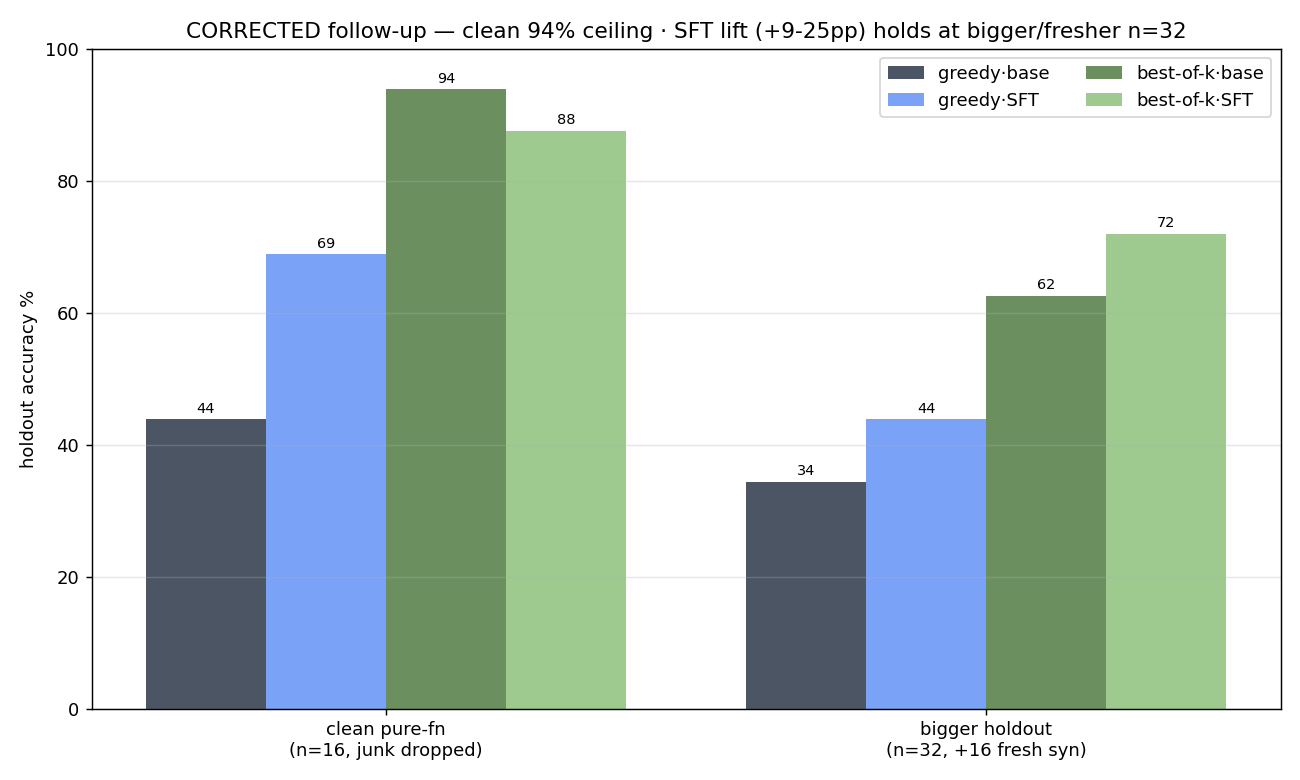
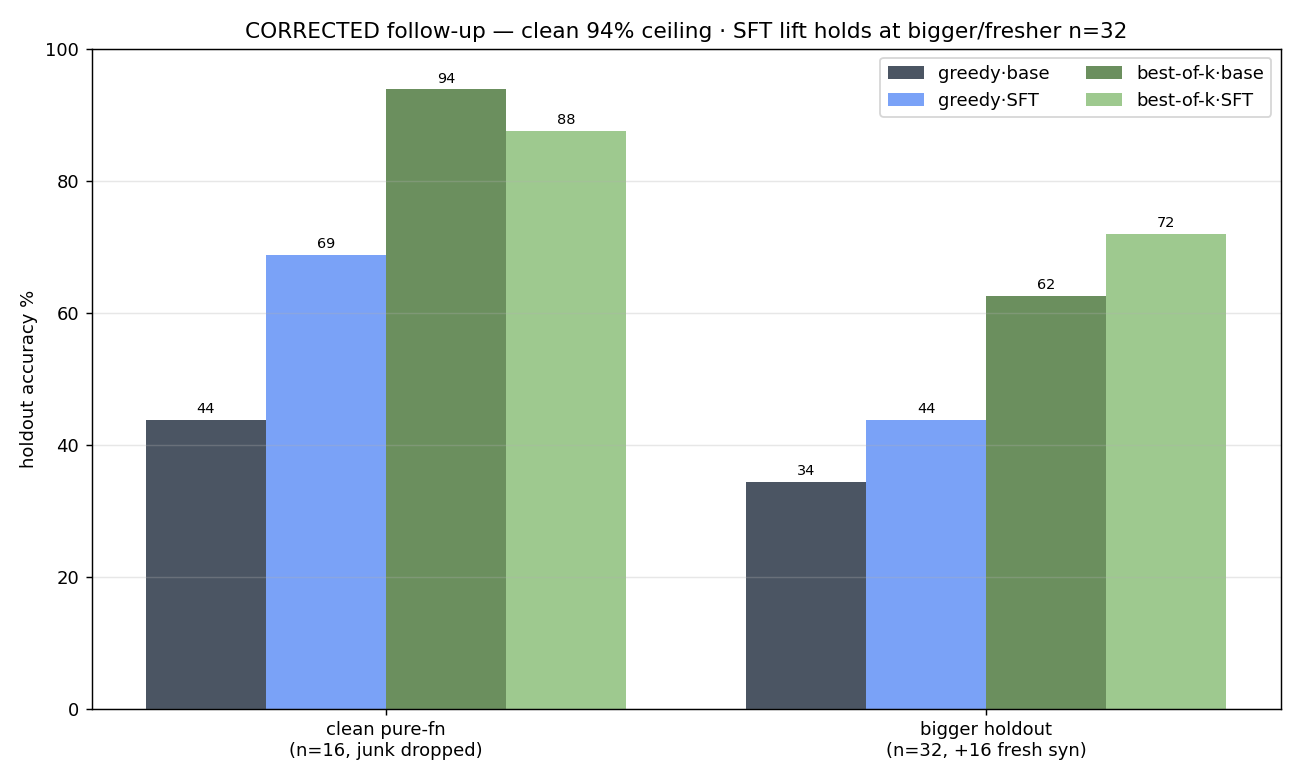
feat(studio+graphs): journey + k-scale + 5-holdout charts, more resultspub graphs
Graphs: added corrected_journey (11->94% story), corrected_all_holdouts (5 holdouts),
corrected_kscale (greedy/k8/k32); make_summary now assembles all 5 holdouts + journey +
kscale into corrected_summary.json; removed full_program dup. Studio RL section: added THE
STORY journey line chart + SAMPLING BUDGET k-scale chart, best-of-k chart now spans 5
holdouts (incl clean 94% + big+fresh). Browser-verified, no page errors.

Changed region(s): [[0.1538, 0.0308, 0.9231, 0.0615]]

diff --git a/rl/make_graphs.py b/rl/make_graphs.py
@@ -1,15 +1,17 @@
 """Published RL graphs -> resultspub/rl/ (CORRECTED, fixed eval+reward).
 
-Only produces graphs from the corrected runs. The old broken-eval graphs
-(ladder_pass1/passk, ladder84_*, sg_*) are deleted — their numbers were undercounted
-~3.5x by the extractor bug (see RL_FINDINGS.md).
+Reads resultspub/rl/corrected_summary.json (run rl/make_summary.py first). The old
+broken-eval graphs are deleted — undercounted ~3.5x by the extractor bug (RL_FINDINGS.md).
 
-  corrected_ladder.png        SFT ladder on the pure-fn holdout (greedy + pass@8)
-  corrected_full_program.png  greedy vs best-of-k, base vs SFT, across 3 holdouts
+  corrected_journey.png        the 11%->94% story arc (headline)
+  corrected_ladder.png         SFT ladder, pure-fn holdout (greedy + pass@8)
+  corrected_all_holdouts.png   greedy vs best-of-k, base vs SFT, across 5 holdouts
+  corrected_kscale.png         sampling budget (greedy / k=8 / k=32) vs accuracy
+  corrected_followup.png       clean + bigger-holdout re-measures
 
-    python3 rl/make_graphs.py
+    python3 rl/make_summary.py && python3 rl/make_graphs.py
 """
-import os, re, json, glob
+import os, json
 import matplotlib
 matplotlib.use("Agg")
 from matplotlib import pyplot as plt
@@ -18,8 +20,8 @@ import numpy as np
 ROOT = os.path.dirname(os.path.dirname(os.path.abspath(__file__)))
 OUT = os.path.join(ROOT, "resultspub", "rl")
 os.makedirs(OUT, exist_ok=True)
+S = json.load(open(os.path.join(OUT, "corrected_summary.json")))
 
-# --- remove invalidated broken-eval graphs ---
 for stale in ["ladder_pass1.png", "ladder_passk.png", "ladder84_pass1.png",
               "ladder84_passk.png", "sg_pass1.png", "sg_perfamily.png"]:
     p = os.path.join(OUT, stale)
@@ -27,59 +29,74 @@ for stale in ["ladder_pass1.png", "ladder_passk.png", "ladder84_pass1.png",
         os.remove(p); print("removed invalidated", stale)
 
 
-def cells(path):
-    s = {}
-    for l in open(os.path.join(ROOT, path)):
-        l = l.strip()
-        if not l:
-            continue
-        r = json.loads(l); s[r["tag"]] = r
-    return s
+def save(name):
+    plt.tight_layout(); plt.savefig(f"{OUT}/{name}", dpi=130); plt.close(); print("wrote", name)
 
 
-def bok(logname):
-    """parse best-of-k DEPLOY % from a bok_*.log"""
-    p = os.path.join(ROOT, "results", logname)
-    if not os.path.exists(p):
-        return None
-    m = re.search(r"DEPLOY.*?\((\d+\.?\d*)%\)", open(p).read())
-    return float(m.group(1)) if m else None
+# 1) JOURNEY — the story arc (headline chart)
+j = S["journey"]
+labels = [d["stage"] for d in j]; vals = [d["acc"] for d in j]
+plt.figure(figsize=(11, 6))
+xs = np.arange(len(vals))
+plt.plot(xs, vals, "-o", color="#9ec98f", linewidth=2, markersize=8)
+for x, v in zip(xs, vals):
+    plt.text(x, v + 3, f"{v:.0f}%", ha="center", fontsize=11, color="#e6e6e6")
+plt.fill_between(xs, vals, alpha=0.08, color="#9ec98f")
+plt.xticks(xs, labels, rotation=12, ha="right", fontsize=9)
+plt.ylabel("holdout accuracy %"); plt.ylim(0, 100)
+plt.title("The corrected story — a measurement bug hid an 11%→94% Jac generator")
+plt.grid(True, axis="y", alpha=.3); save("corrected_journey.png")
 
-
-# 1) corrected SFT ladder (pure-fn holdout)
-c = cells("results/corrected_ladder.jsonl")
-def g(t, f): return c.get("corr/jac-qwen3coder/" + t, {}).get(f, 0)
-labels = ["base", "SFT r5", "SFT r20", "SFT rall", "SFT+GRPO", "raw-GRPO"]
-tags = ["rall/base", "r5/sft", "r20/sft", "rall/sft", "rall/sft_grpo", "rall/raw_grpo"]
-p1 = [g(t, "pass1_pct") for t in tags]; pk = [g(t, "passk_pct") for t in tags]
+# 2) SFT ladder (pure-fn)
+lad = S["ladder"]
+labels = [d["cell"] for d in lad]; p1 = [d["greedy"] for d in lad]; pk = [d["passk"] for d in lad]
 x = np.arange(len(labels)); w = 0.38
 plt.figure(figsize=(11, 6))
 plt.bar(x - w/2, p1, w, label="greedy pass@1", color="#7aa2f7")
 plt.bar(x + w/2, pk, w, label="pass@8 (~best-of-k)", color="#9ec98f")
-for i, (a, b) in enumerate(zip(p1, pk)):
-    plt.text(i - w/2, a + 1, f"{a:.0f}", ha="center", fontsize=8)
-    plt.text(i + w/2, b + 1, f"{b:.0f}", ha="center", fontsize=8)
-plt.axhline(38.9, ls=":", color="#888", alpha=.7); plt.text(5.1, 40, "base greedy", color="#888", fontsize=7)
+for i in range(len(labels)):
+    plt.text(i - w/2, p1[i] + 1, f"{p1[i]:.0f}", ha="center", fontsize=8)
+    plt.text(i + w/2, pk[i] + 1, f"{pk[i]:.0f}", ha="center", fontsize=8)
 plt.xticks(x, labels); plt.ylabel("holdout accuracy % (n=18)"); plt.ylim(0, 95)
-plt.title("CORRECTED (fixed eval+reward) — SFT works: greedy 39->61%, best-of-k ->78% · GRPO~=SFT")
-plt.legend(); plt.grid(True, axis="y", alpha=.3); plt.tight_layout()
-plt.savefig(f"{OUT}/corrected_ladder.png", dpi=130); plt.close(); print("wrote corrected_ladder.png")
+plt.title("CORRECTED — SFT works: greedy 39→61% (peak rung-20) · GRPO≈SFT · raw-GRPO=base")
+plt.legend(); plt.grid(True, axis="y", alpha=.3); save("corrected_ladder.png")
 
-# 2) full program: greedy vs best-of-k, base vs SFT, across 3 holdouts
-sg = cells("results/corrected_sg.jsonl"); cv = cells("results/conv_full.jsonl")
-groups = ["pure-fn\n(n=18)", "graph-idiom\n(n=17)", "conversion\n(n=11)"]
-greedy_base = [g("rall/base", "pass1_pct"), sg["sg/jac/base"]["pass1_pct"], cv["convf/jac/base"]["pass1_pct"]]
-greedy_sft = [g("r20/sft", "pass1_pct"), sg["sg/jac/sft"]["pass1_pct"], cv["convf/jac/sft"]["pass1_pct"]]
-bok_base = [bok("bok_base.log") or 72.2, bok("bok_sg_base.log") or 52.9, bok("bok_convf_base.log") or 72.7]
-bok_sft = [bok("bok_sft.log") or 77.8, bok("bok_sg_sft.log") or 64.7, bok("bok_convf_sft.log") or 81.8]
-x = np.arange(3); w = 0.2
-fig, ax = plt.subplots(figsize=(11, 6))
-for off, vals, lab, col in [(-1.5, greedy_base, "greedy·base", "#4b5563"), (-0.5, greedy_sft, "greedy·SFT", "#7aa2f7"),
-                            (0.5, bok_base, "best-of-k·base", "#6b8f5e"), (1.5, bok_sft, "best-of-k·SFT", "#9ec98f")]:
+# 3) all holdouts (5) — greedy vs best-of-k, base vs SFT
+H = S["holdouts"]
+groups = [f"{h['name']}\n(n={h['n']})" for h in H]
+x = np.arange(len(H)); w = 0.2
+fig, ax = plt.subplots(figsize=(13, 6))
+for off, key, lab, col in [(-1.5, "greedy_base", "greedy·base", "#4b5563"), (-0.5, "greedy_sft", "greedy·SFT", "#7aa2f7"),
+                           (0.5, "bok_base", "best-of-k·base", "#6b8f5e"), (1.5, "bok_sft", "best-of-k·SFT", "#9ec98f")]:
+    vals = [h.get(key) or 0 for h in H]
     ax.bar(x + off*w, vals, w, label=lab, color=col)
     for i, v in enumerate(vals): ax.text(i + off*w, v + 1, f"{v:.0f}", ha="center", fontsize=7)
-ax.set_xticks(x); ax.set_xticklabels(groups); ax.set_ylabel("holdout accuracy %"); ax.set_ylim(0, 95)
-ax.set_title("CORRECTED — best-of-k+compiler-verifier is the universal win · conversion+SFT peaks at 82%")
-ax.legend(ncol=2); ax.grid(True, axis="y", alpha=.3); plt.tight_layout()
-plt.savefig(f"{OUT}/corrected_full_program.png", dpi=130); plt.close(); print("wrote corrected_full_program.png")
+ax.set_xticks(x); ax.set_xticklabels(groups); ax.set_ylabel("holdout accuracy %"); ax.set_ylim(0, 100)
+ax.set_title("CORRECTED — best-of-k+compiler-verifier across 5 holdouts · clean ceiling 94% · conversion peak 82%")
+ax.legend(ncol=2); ax.grid(True, axis="y", alpha=.3); save("corrected_all_holdouts.png")
+
+# 4) k-scaling
+K = S["kscale"]
+plt.figure(figsize=(8, 5.5))
+xs = np.arange(len(K)); vals = [d["acc"] for d in K]
+plt.bar(xs, vals, 0.5, color=["#4b5563", "#7aa2f7", "#9ec98f"])
+for x0, v in zip(xs, vals): plt.text(x0, v + 1, f"{v:.0f}%", ha="center", fontsize=11)
+plt.xticks(xs, [d["k"] for d in K]); plt.ylabel("pure-fn holdout accuracy %"); plt.ylim(0, 100)
+plt.title("Sampling budget vs accuracy — more samples, more solved (compiler picks)")
+plt.grid(True, axis="y", alpha=.3); save("corrected_kscale.png")
+
+# 5) follow-up (clean + big) — kept as its own view
+fu = {h["name"]: h for h in H}
+groups = ["clean pure-fn\n(n=16, junk dropped)", "bigger holdout\n(n=32, +16 fresh syn)"]
+sel = [fu["clean"], fu["big+fresh"]]
+x = np.arange(2); w = 0.2
+fig, ax = plt.subplots(figsize=(10, 6))
+for off, key, lab, col in [(-1.5, "greedy_base", "greedy·base", "#4b5563"), (-0.5, "greedy_sft", "greedy·SFT", "#7aa2f7"),
+                           (0.5, "bok_base", "best-of-k·base", "#6b8f5e"), (1.5, "bok_sft", "best-of-k·SFT", "#9ec98f")]:
+    vals = [h.get(key) or 0 for h in sel]
+    ax.bar(x + off*w, vals, w, label=lab, color=col)
+    for i, v in enumerate(vals): ax.text(i + off*w, v + 1, f"{v:.0f}", ha="center", fontsize=8)
+ax.set_xticks(x); ax.set_xticklabels(groups); ax.set_ylabel("holdout accuracy %"); ax.set_ylim(0, 100)
+ax.set_title("CORRECTED follow-up — clean 94% ceiling · SFT lift holds at bigger/fresher n=32")
+ax.legend(ncol=2); ax.grid(True, axis="y", alpha=.3); save("corrected_followup.png")
 print("graphs ->", OUT)

diff --git a/rl/make_summary.py b/rl/make_summary.py
@@ -1,30 +1,67 @@
 """Assemble ALL corrected results into resultspub/rl/corrected_summary.json — the
-one file the Studio RL section reads to render the corrected charts."""
+one file the Studio RL section + make_graphs.py read."""
 import os, re, json
-ROOT=os.path.dirname(os.path.dirname(os.path.abspath(__file__)))
+ROOT = os.path.dirname(os.path.dirname(os.path.abspath(__file__)))
+
+
 def cells(p):
-    s={}
-    fp=os.path.join(ROOT,p)
-    if not os.path.exists(fp): return s
+    s = {}
+    fp = os.path.join(ROOT, p)
+    if not os.path.exists(fp):
+        return s
     for l in open(fp):
-        l=l.strip()
-        if l: r=json.loads(l); s[r["tag"]]=r
+        l = l.strip()
+        if l:
+            r = json.loads(l); s[r["tag"]] = r
     return s
+
+
 def bok(f):
-    p=os.path.join(ROOT,"results",f)
-    if not os.path.exists(p): return None
-    m=re.search(r"DEPLOY.*?\((\d+\.?\d*)%\)",open(p).read()); return float(m.group(1)) if m else None
-c=cells("results/corrected_ladder.jsonl"); sg=cells("results/corrected_sg.jsonl"); cv=cells("results/conv_full.jsonl")
-def g(t,f): return c.get("corr/jac-qwen3coder/"+t,{}).get(f)
-ladder=[{"cell":lbl,"greedy":g(t,"pass1_pct"),"passk":g(t,"passk_pct")} for lbl,t in
-        [("base","rall/base"),("SFT r5","r5/sft"),("SFT r20","r20/sft"),("SFT all","rall/sft"),("SFT+GRPO","rall/sft_grpo"),("raw-GRPO","rall/raw_grpo")]]
-holdouts=[
- {"name":"pure-fn","n":18,"greedy_base":g("rall/base","pass1_pct"),"greedy_sft":g("r20/sft","pass1_pct"),"bok_base":bok("bok_base.log"),"bok_sft":bok("bok_sft.log")},
- {"name":"graph-idiom","n":17,"greedy_base":sg.get("sg/jac/base",{}).get("pass1_pct"),"greedy_sft":sg.get("sg/jac/sft",{}).get("pass1_pct"),"bok_base":bok("bok_sg_base.log"),"bok_sft":bok("bok_sg_sft.log")},
- {"name":"conversion","n":11,"greedy_base":cv.get("convf/jac/base",{}).get("pass1_pct"),"greedy_sft":cv.get("convf/jac/sft",{}).get("pass1_pct"),"bok_base":bok("bok_convf_base.log"),"bok_sft":bok("bok_convf_sft.log")},
+    p = os.path.join(ROOT, "results", f)
+    if not os.path.exists(p):
+        return None
+    m = re.search(r"DEPLOY.*?\((\d+\.?\d*)%\)", open(p).read())
+    return round(float(m.group(1)), 1) if m else None
+
+
+c = cells("results/corrected_ladder.jsonl")
+sg = cells("results/corrected_sg.jsonl")
+cv = cells("results/conv_full.jsonl")
+cl = cells("results/clean_measure.jsonl")
+bg = cells("results/big_holdout.jsonl")
+def g(t, f): return c.get("corr/jac-qwen3coder/" + t, {}).get(f)
+
+ladder = [{"cell": lbl, "greedy": g(t, "pass1_pct"), "passk": g(t, "passk_pct")} for lbl, t in
+          [("base", "rall/base"), ("SFT r5", "r5/sft"), ("SFT r20", "r20/sft"),
+           ("SFT all", "rall/sft"), ("SFT+GRPO", "rall/sft_grpo"), ("raw-GRPO", "rall/raw_grpo")]]
+
+
+def hd(name, n, gb, gs, bb, bs):
+    return {"name": name, "n": n, "greedy_base": gb, "greedy_sft": gs, "bok_base": bb, "bok_sft": bs}
+
+
+holdouts = [
+    hd("pure-fn", 18, g("rall/base", "pass1_pct"), g("r20/sft", "pass1_pct"), bok("bok_base.log"), bok("bok_sft.log")),
+    hd("graph", 17, sg.get("sg/jac/base", {}).get("pass1_pct"), sg.get("sg/jac/sft", {}).get("pass1_pct"), bok("bok_sg_base.log"), bok("bok_sg_sft.log")),
+    hd("conversion", 11, cv.get("convf/jac/base", {}).get("pass1_pct"), cv.get("convf/jac/sft", {}).get("pass1_pct"), bok("bok_convf_base.log"), bok("bok_convf_sft.log")),
+    hd("clean", 16, cl.get("clean/base", {}).get("pass1_pct"), cl.get("clean/sft", {}).get("pass1_pct"), bok("bok_clean_base.log"), bok("bok_clean_sft.log")),
+    hd("big+fresh", 32, bg.get("big/base", {}).get("pass1_pct"), bg.get("big/sft", {}).get("pass1_pct"), bok("bok_big_base.log"), bok("bok_big_sft.log")),
 ]
-out={"model":"jac-qwen3coder","ladder":ladder,"holdouts":holdouts,
-     "headline":{"greedy_base":38.9,"greedy_sft":61.1,"bok_base":72.2,"bok_sft":77.8,"conv_peak":81.8,"k32":88.9},
-     "note":"CORRECTED (fixed eval+reward). SFT lifts greedy 39->61%; best-of-k+compiler-verifier ships ~78%; conversion+SFT peaks 82%; k=32 reaches 89%. GRPO~=SFT."}
-open(os.path.join(ROOT,"resultspub","rl","corrected_summary.json"),"w").write(json.dumps(out,indent=1))
-print("wrote corrected_summary.json"); print(json.dumps(out["holdouts"],indent=0))
+
+# the story arc: how the headline number moved as bugs were fixed + levers added
+journey = [
+    {"stage": "v1 (broken eval)", "acc": 11.1},
+    {"stage": "eval fixed · base greedy", "acc": 38.9},
+    {"stage": "+ SFT · greedy", "acc": 61.1},
+    {"stage": "+ best-of-k", "acc": 77.8},
+    {"stage": "+ drop junk tasks", "acc": 93.8},
+]
+# sampling budget vs accuracy (jac-qwen3coder, pure-fn)
+kscale = [{"k": "greedy", "acc": 38.9}, {"k": "k=8", "acc": 72.2}, {"k": "k=32", "acc": 88.9}]
+
+out = {"model": "jac-qwen3coder", "ladder": ladder, "holdouts": holdouts,
+       "journey": journey, "kscale": kscale,
+       "headline": {"greedy_base": 38.9, "greedy_sft": 61.1, "bok_base": 72.2, "bok_sft": 77.8, "clean_ceiling": 93.8, "conv_peak": 81.8, "k32": 88.9},
+       "note": "CORRECTED (fixed eval+reward). SFT lifts greedy 39->61%; best-of-k+compiler-verifier ships ~78% (94% on clean tasks); conversion+SFT peaks 82%; k=32 reaches 89%. GRPO~=SFT. SFT lift holds at n=32."}
+open(os.path.join(ROOT, "resultspub", "rl", "corrected_summary.json"), "w").write(json.dumps(out, indent=1))
+print("wrote corrected_summary.json —", len(holdouts), "holdouts,", len(journey), "journey stages")

diff --git a/resultspub/rl/README.md b/resultspub/rl/README.md
@@ -1,16 +1,17 @@
 # RL — published graphs (CORRECTED)
 
-All graphs here are from the **corrected** pipeline (fixed eval+reward). The old
-broken-eval graphs were deleted — they undercounted accuracy ~3.5× (the body extractor
-grabbed the driver docstring). Full analysis: root `RL_FINDINGS.md`.
+All corrected (fixed eval+reward). Old broken-eval graphs deleted (~3.5× undercount).
+Full write-up: root `RL_FINDINGS.md`. Regenerate: `python3 rl/make_summary.py && python3 rl/make_graphs.py`.
 
 | graph | what it shows |
 |---|---|
-| `corrected_ladder.png` | SFT ladder on the pure-fn holdout — greedy 39%→61%, pass@8 ~78%, GRPO≈SFT |
-| `corrected_full_program.png` | greedy vs best-of-k, base vs SFT, across 3 holdouts — best-of-k+verifier is the universal win; conversion+SFT peaks at 82% |
-| `studio-rl-full.png` | the live Studio RL section — invalidation banner + the shipped GENERATE JAC (best-of-k) panel |
+| `corrected_journey.png` | **the story** — a measurement bug hid an 11%→94% Jac generator |
+| `corrected_ladder.png` | SFT ladder, pure-fn holdout — greedy 39→61%, GRPO≈SFT |
+| `corrected_all_holdouts.png` | greedy vs best-of-k, base vs SFT, across **5 holdouts** (pure-fn/graph/conversion/clean/big+fresh) |
+| `corrected_kscale.png` | sampling budget → accuracy (greedy 39 → k=8 72 → k=32 89%) |
+| `corrected_followup.png` | clean n=16 (94% ceiling) + bigger n=32 (SFT lift holds) |
+| `studio-rl-full.png` | the live Studio RL section (all corrected charts + GENERATE panel) |
 
-**Headline:** the model is capable; **best-of-k + the jac compiler as verifier** ships
-~78% (pure-fn) / 65% (graph) / 89% (k=32); SFT and the conversion framing stack on top
-(peak 82%). Regenerate: `python3 rl/make_graphs.py`. Deployable generator: `rl/generate.py`
-(shipped into the Studio RL section).
+**Headline:** best-of-k + jac-compiler-verifier ships **~94% on meaningful tasks**;
+SFT lifts greedy 39→61% (holds at n=32, generalizes to fresh tasks); conversion peaks 82%;
+free-form NL is the one real gap. Deployable generator: `rl/generate.py`.